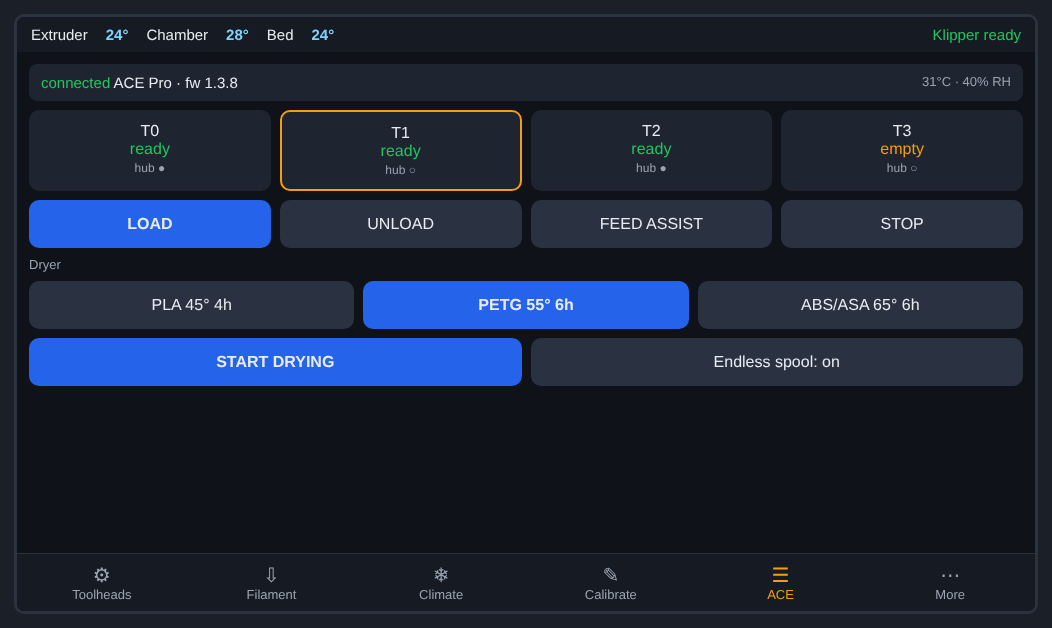
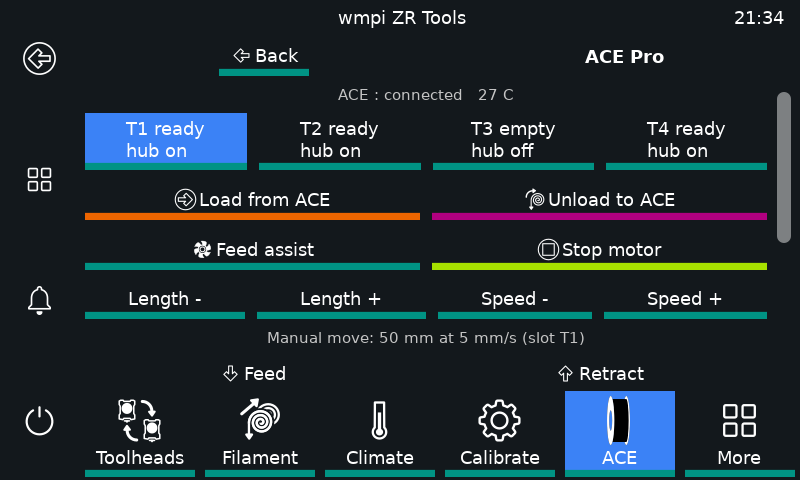
docs: real screen-board screenshots of ZR Tools replace the drawn illustrations

diff --git a/README.md b/README.md
@@ -318,24 +318,20 @@ The screen is detected for you: size from the video output (800x480 and smaller 
 
 **Settings page:** layout (tabs/grid), density (auto/compact/comfortable) and light/dark theme. They are stored in `~/printer_data/config/zr_screen.conf` (not in KlipperScreen's own settings). You can also change the layout with `./installer.sh --screen-layout grid`.
 
-**What it looks like** (drawn illustrations of the intended look, not photos; real screens will differ in small details):
+**What it looks like** (real captures from the WonderMaker screen board, 800x480, layout `tabs`, with demo data: temperatures, colours and ACE slots are made up):
 
-Layout `tabs` (default), 7 inch 1024x600:
+| | |
+|---|---|
+| ![Toolheads](docs/img/screen-toolheads.png) | ![Filament](docs/img/screen-filament.png) |
+| Toolheads: colour, material, temperature and which slicer tool prints on each head | Filament: select, heat, load, unload and purge one head |
+| ![Climate](docs/img/screen-climate.png) | ![Utilities](docs/img/screen-utilities.png) |
+| Climate: chamber, air filter, doors | Utilities: home, offsets, wipe, park, motors off |
+| ![ACE Pro](docs/img/screen-ace.png) | ![More](docs/img/screen-more.png) |
+| ACE Pro page (only shown when an ACE Pro is present) | More: ACE Pro, fans, pressure advance, camera, system, screen settings |
+| ![Screen settings](docs/img/screen-settings.png) | ![Tool mapping](docs/img/screen-mapping.png) |
+| Screen settings: layout, size, colours | Tool mapping: which head prints each slicer tool |
 
-![ZR Tools tabs layout](docs/img/screen-tabs.png)
-
-Layout `grid`:
-
-![ZR Tools grid layout](docs/img/screen-grid.png)
-
-ACE Pro page (only shown when an ACE Pro is present):
-
-![ZR Tools ACE Pro page](docs/img/screen-ace.png)
-
-Settings page, and the Calibrate page on a 5 inch 800x480 screen (compact):
-
-![ZR Tools settings](docs/img/screen-settings.png)
-![ZR Tools calibrate, 5 inch](docs/img/screen-calib5.png)
+The `grid` layout shows the same pages as cards instead of tabs; it has not been photographed yet.
 
 **Rotation** is an operating-system setting, not a ZR Tools one. On X11 use `xrandr --output <name> --rotate left` (and a matching touch matrix); for Weston, `transform=90` in `weston.ini`. See the KlipperScreen documentation.
 
